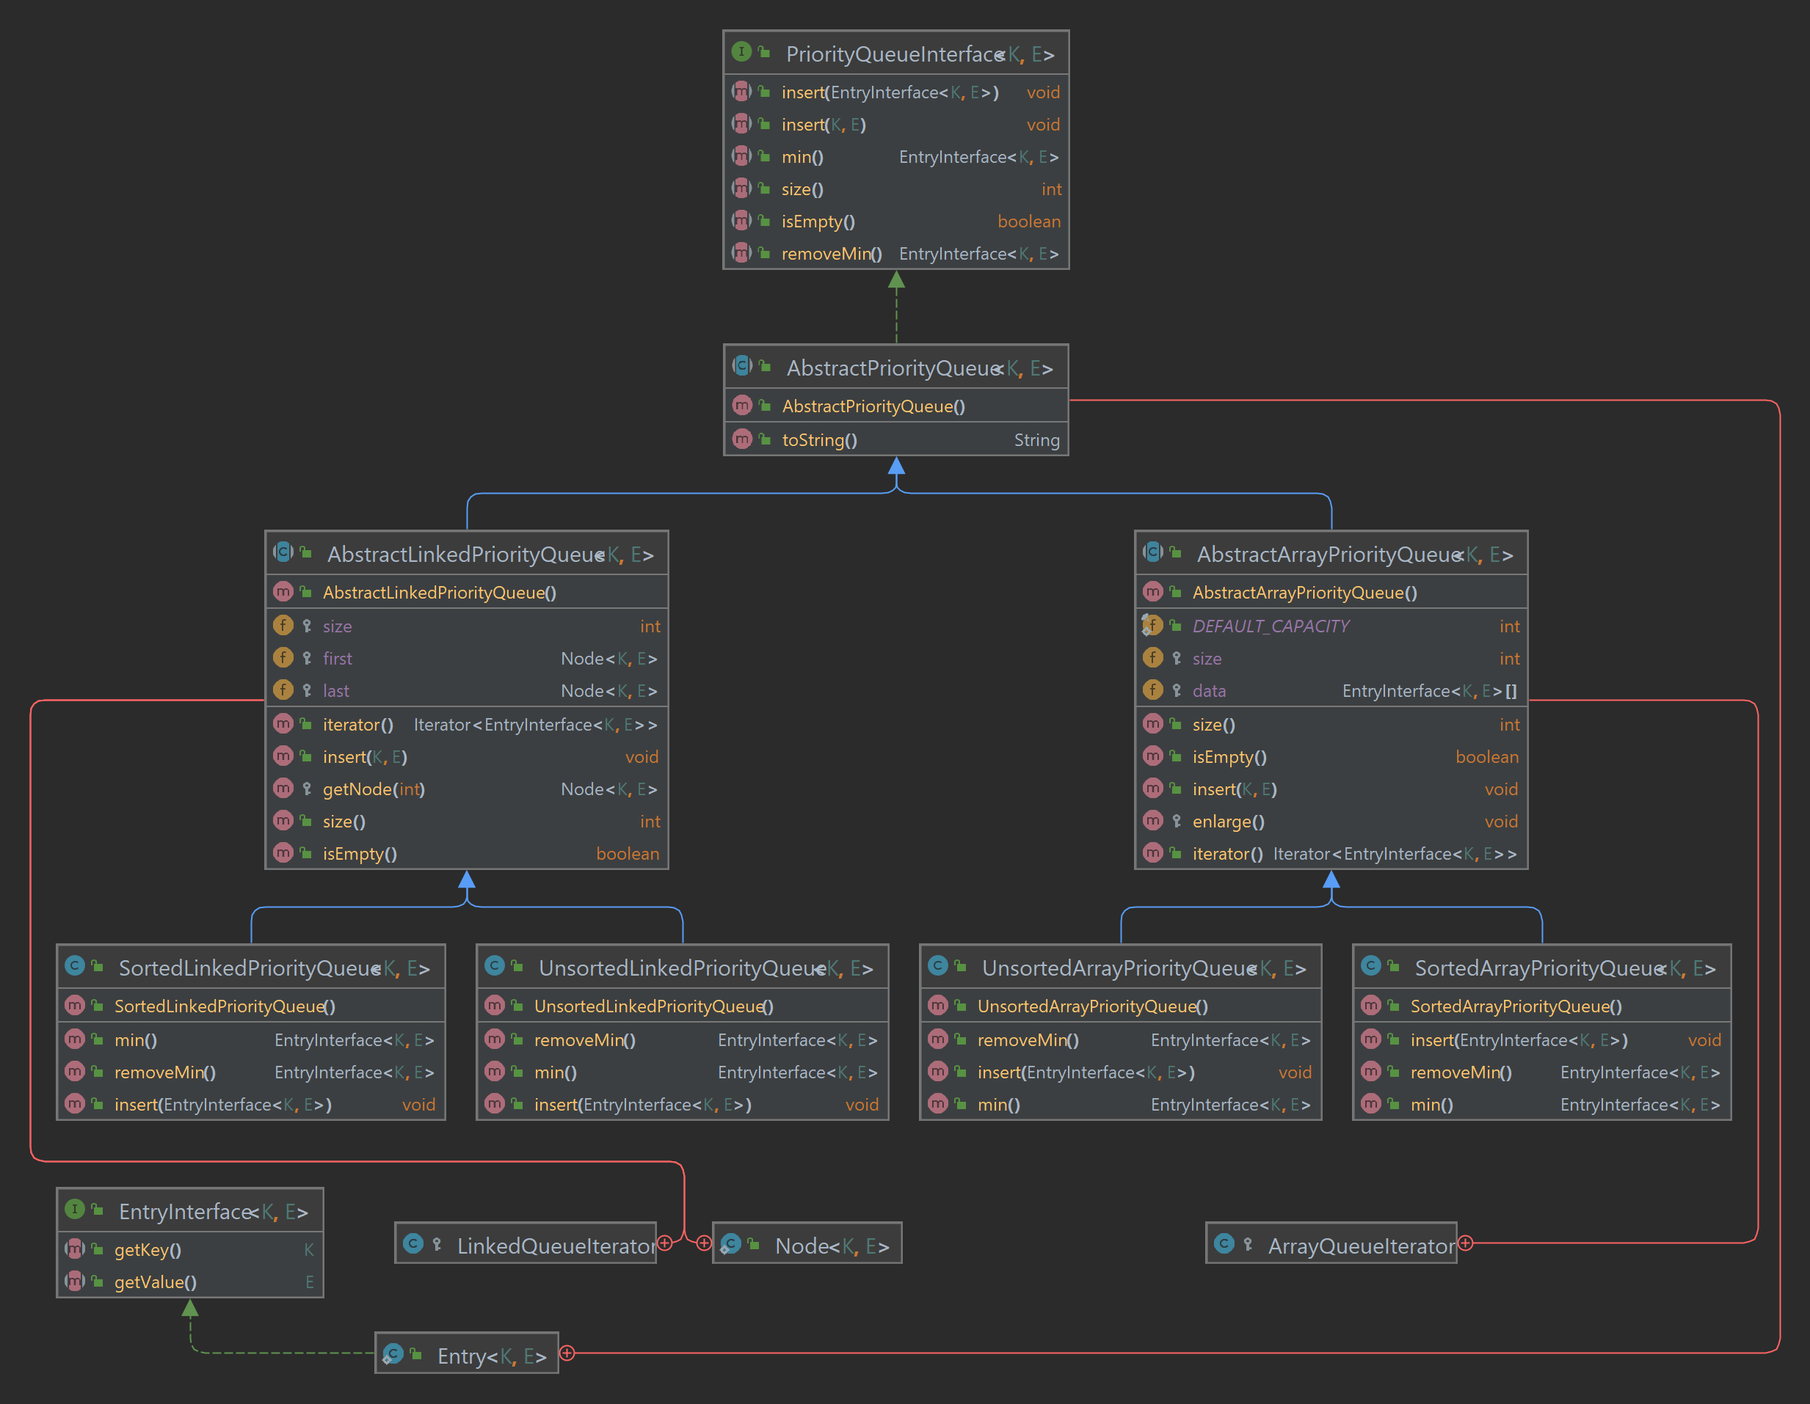
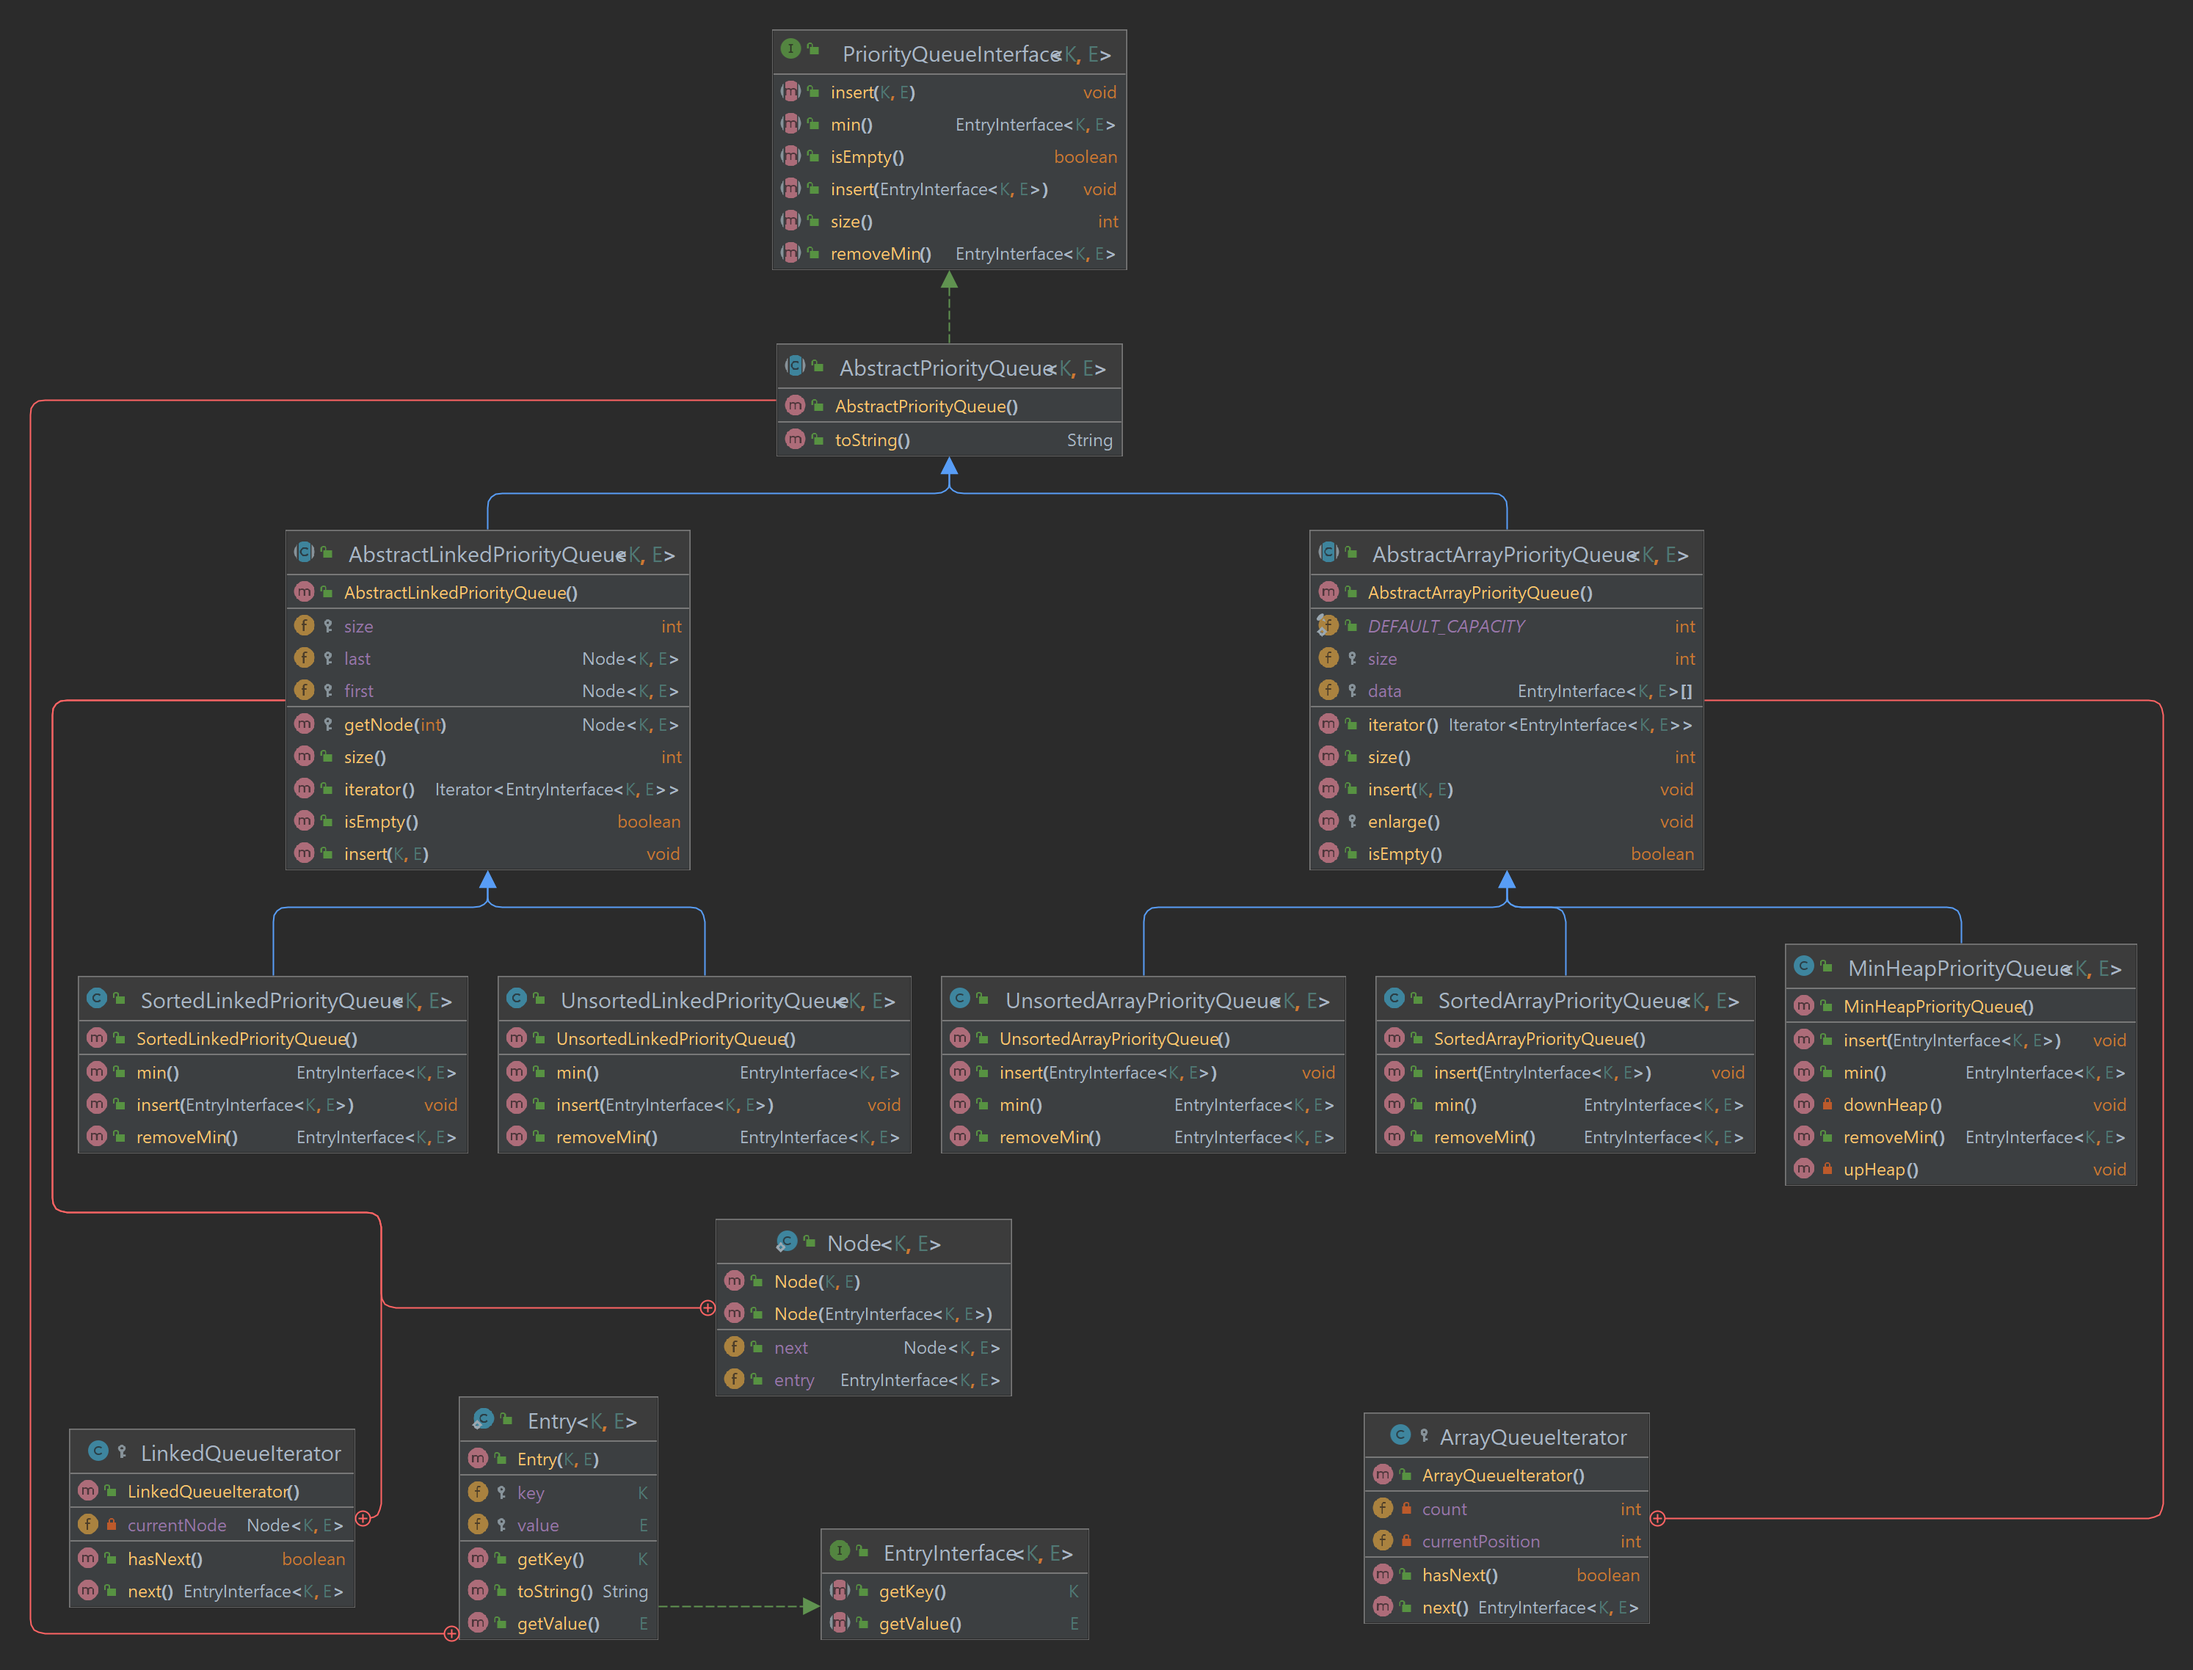
hw6 - exe001, 002 - done

diff --git a/src/hw6_21000699_dangngocquan/exercise002/Main.java b/src/hw6_21000699_dangngocquan/exercise002/Main.java
@@ -1,0 +1,32 @@
+package hw6_21000699_dangngocquan.exercise002;
+
+public class Main {
+    public static void main(String[] args) {
+        new Test().run();
+
+/*
+
+TEST MIN HEAP PRIORITY QUEUE
+Action                                    Return                          Priority queue after action
+--------------------------------------------------------------------------------------------------------------------------------------
+size()                                    0                               PriorityQueue[]
+isEmpty()                                 true                            PriorityQueue[]
+insert([5, a])                                                            PriorityQueue[[5, a]]
+insert(key=3, value=b)                                                    PriorityQueue[[3, b], [5, a]]
+insert(key=1, value=c)                                                    PriorityQueue[[1, c], [5, a], [3, b]]
+min()                                     [1, c]                          PriorityQueue[[1, c], [5, a], [3, b]]
+removeMin()                               [1, c]                          PriorityQueue[[3, b], [5, a]]
+insert(key=4, value=d)                                                    PriorityQueue[[3, b], [5, a], [4, d]]
+insert(key=2, value=e)                                                    PriorityQueue[[2, e], [3, b], [4, d], [5, a]]
+insert(key=6, value=f)                                                    PriorityQueue[[2, e], [3, b], [4, d], [5, a], [6, f]]
+size()                                    5                               PriorityQueue[[2, e], [3, b], [4, d], [5, a], [6, f]]
+isEmpty()                                 false                           PriorityQueue[[2, e], [3, b], [4, d], [5, a], [6, f]]
+min()                                     [2, e]                          PriorityQueue[[2, e], [3, b], [4, d], [5, a], [6, f]]
+removeMin()                               [2, e]                          PriorityQueue[[3, b], [5, a], [4, d], [6, f]]
+removeMin()                               [3, b]                          PriorityQueue[[4, d], [5, a], [6, f]]
+removeMin()                               [4, d]                          PriorityQueue[[5, a], [6, f]]
+removeMin()                               [5, a]                          PriorityQueue[[6, f]]
+
+*/
+    }
+}

diff --git a/src/hw6_21000699_dangngocquan/base/MinHeapPriorityQueue.java b/src/hw6_21000699_dangngocquan/base/MinHeapPriorityQueue.java
@@ -1,0 +1,65 @@
+package hw6_21000699_dangngocquan.base;
+
+public class MinHeapPriorityQueue<K extends Comparable<K>, E>
+        extends AbstractArrayPriorityQueue<K, E> {
+    // Start with index = 1
+    @Override
+    public void insert(EntryInterface<K, E> entry) {
+        if (entry == null) return;
+        if (data.length - 1 == size) enlarge();
+        data[++size] = entry;
+        upHeap();
+    }
+
+    @Override
+    public EntryInterface<K, E> removeMin() {
+        if (isEmpty()) return null;
+        EntryInterface<K, E> entryMin = data[1];
+        data[1] = data[size];
+        data[size] = entryMin;
+        size--;
+        downHeap();
+        return entryMin;
+    }
+
+    @Override
+    public EntryInterface<K, E> min() {
+        if (isEmpty()) return null;
+        return data[1];
+    }
+
+    private void upHeap() {
+        if (size == 0) return;
+        int i = size;
+        while (i > 1 && data[i].getKey().compareTo(data[i/2].getKey()) < 0) {
+            EntryInterface<K, E> temp = data[i];
+            data[i] = data[i/2];
+            data[i/2] = temp;
+            i /= 2;
+        }
+    }
+
+    private void downHeap() {
+        if (size == 0) return;
+        int i = 1;
+        while (i < size) {
+            if (2*i  + 1 <= size) { // has left child and right child
+                K keyParent = data[i].getKey();
+                K keyChildLeft = data[2*i].getKey();
+                K keyChildRight = data[2*i+1].getKey();
+                if (keyParent.compareTo(keyChildLeft) < 0 && keyParent.compareTo(keyChildRight) < 0) break;
+                EntryInterface<K, E> temp = data[i];
+                int j = keyChildLeft.compareTo(keyChildRight) <= 0? 2*i : 2*i+1;
+                data[i] = data[j];
+                data[j] = temp;
+                i = j;
+            } else if (2*i <= size) { // only has left child
+                if (data[i].getKey().compareTo(data[2*i].getKey()) < 0) break;
+                EntryInterface<K, E> temp = data[i];
+                data[i] = data[2*i];
+                data[2*i] = temp;
+                i = 2*i;
+            } else break; // no child
+        }
+    }
+}

diff --git a/src/hw6_21000699_dangngocquan/exercise002/Test.java b/src/hw6_21000699_dangngocquan/exercise002/Test.java
@@ -1,0 +1,38 @@
+package hw6_21000699_dangngocquan.exercise002;
+
+import hw6_21000699_dangngocquan.base.AbstractPriorityQueue;
+import hw6_21000699_dangngocquan.base.MinHeapPriorityQueue;
+import hw6_21000699_dangngocquan.exercise001.AbstractTest;
+
+public class Test extends AbstractTest<Integer, String> {
+    public Test() {
+        super(new MinHeapPriorityQueue<>());
+    }
+
+    @Override
+    public void run() {
+        header();
+        testSize(queue);
+        testIsEmpty(queue);
+        testInsert1(queue, new AbstractPriorityQueue.Entry<>(5, "a"));
+        testInsert2(queue, 3, "b");
+        testInsert2(queue, 1, "c");
+        testMin(queue);
+        testRemoveMin(queue);
+        testInsert2(queue, 4, "d");
+        testInsert2(queue, 2, "e");
+        testInsert2(queue, 6, "f");
+        testSize(queue);
+        testIsEmpty(queue);
+        testMin(queue);
+        testRemoveMin(queue);
+        testRemoveMin(queue);
+        testRemoveMin(queue);
+        testRemoveMin(queue);
+    }
+
+    @Override
+    public void printNameTest() {
+        System.out.println("TEST MIN HEAP PRIORITY QUEUE");
+    }
+}

diff --git a/src/hw6_21000699_dangngocquan/base/AbstractArrayPriorityQueue.java b/src/hw6_21000699_dangngocquan/base/AbstractArrayPriorityQueue.java
@@ -39,15 +39,18 @@ public abstract class AbstractArrayPriorityQueue<K extends Comparable<K>, E>
     }
 
     protected class ArrayQueueIterator implements Iterator<EntryInterface<K, E>> {
-        private int currentPosition = 0;
+        private int count = 0;
+        private int currentPosition= 0;
 
         @Override
         public boolean hasNext() {
-            return currentPosition < size;
+            return count < size;
         }
 
         @Override
         public EntryInterface<K, E> next() {
+            while (count < size && data[currentPosition] == null) currentPosition++;
+            count++;
             return data[currentPosition++];
         }
     }
